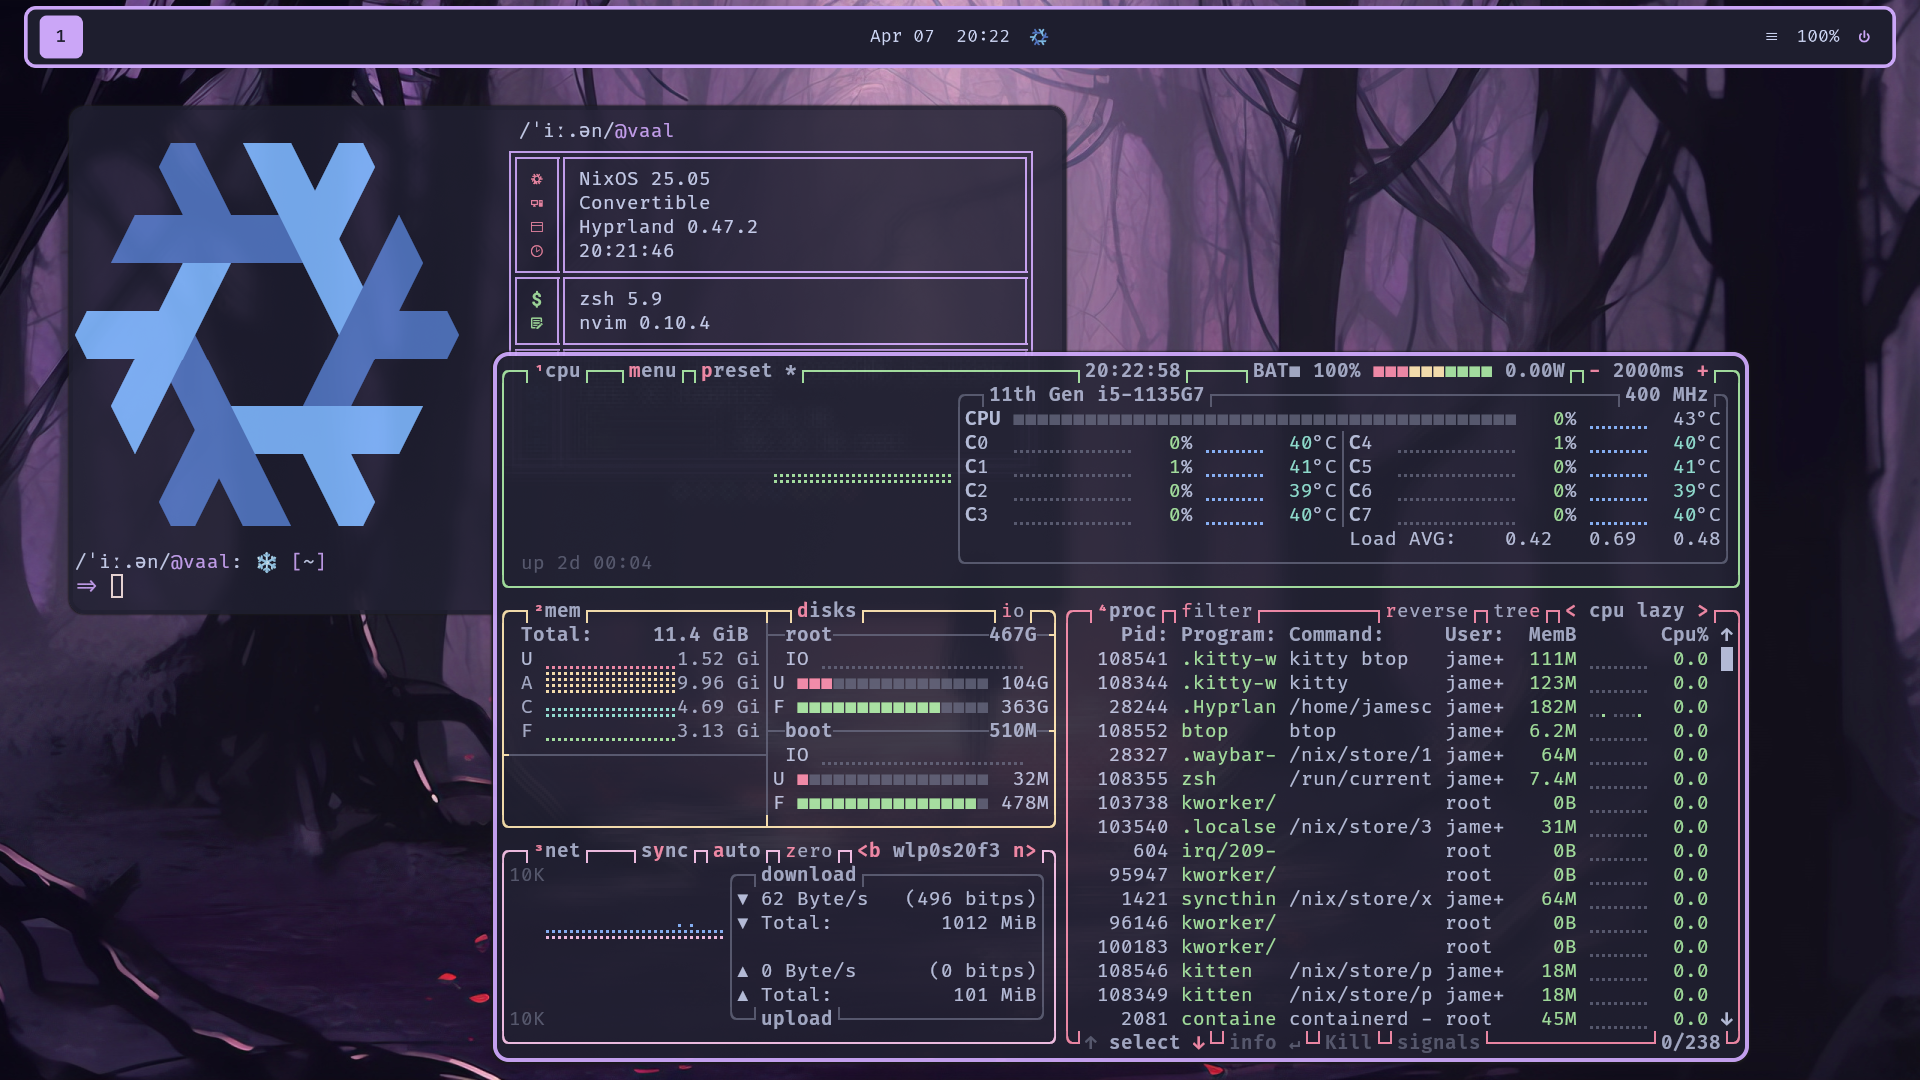
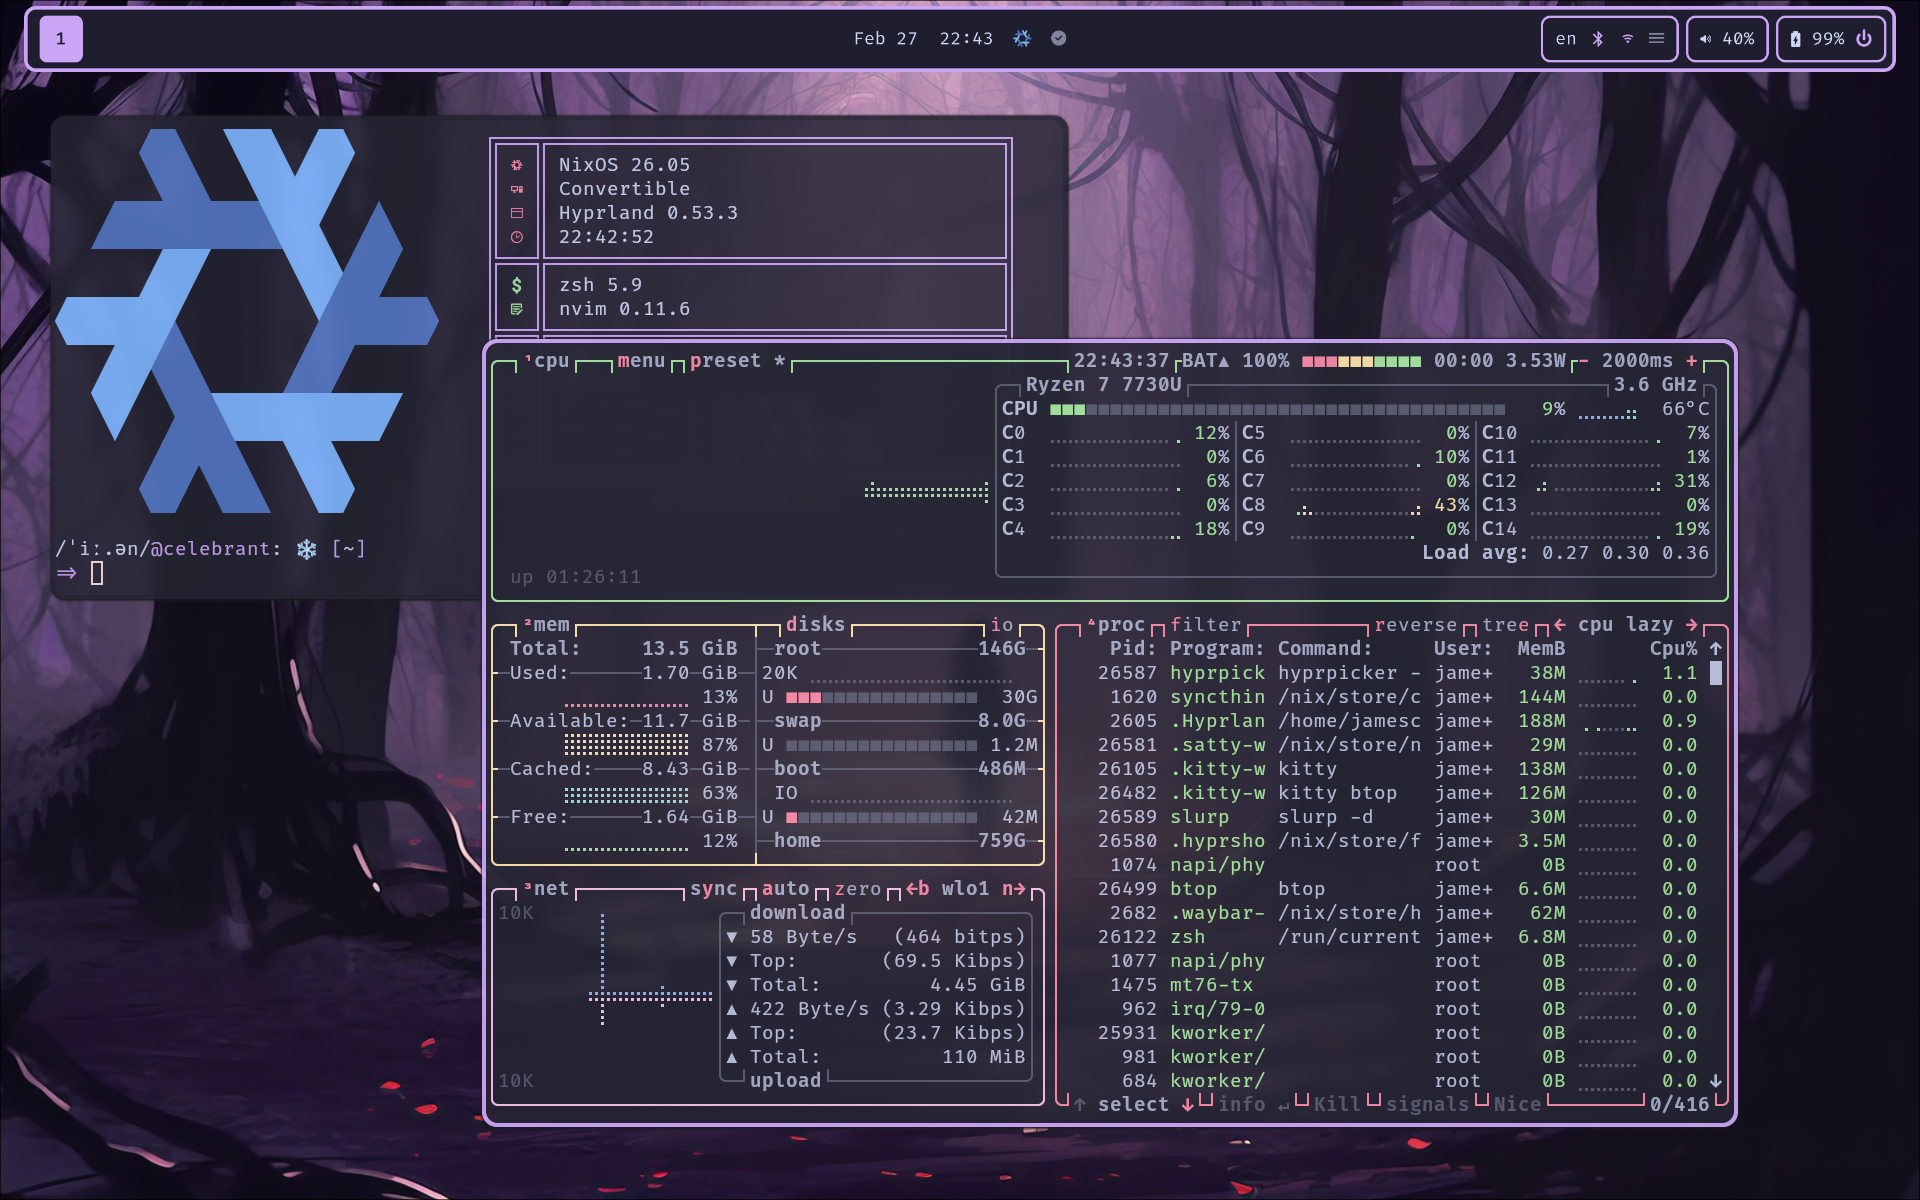
change: update lore

Changed region(s): [[0.0, 0.0, 1.0, 1.0]]

diff --git a/README.md b/README.md
@@ -23,24 +23,32 @@ and have been daily driving it since around that time.
 
 Host Devices
 ------------
-| Hostname | Device Type     | Primary Purpose       | Namesake                                                                                 |
-|----------|-----------------|-----------------------|------------------------------------------------------------------------------------------|
-| vaal     | Laptop          | School                | [Vaal River, South Africa](https://en.wikipedia.org/wiki/Vaal_River)                     |
-| RioTinto | Desktop         | Gaming                | [Rio Tinto, Spain](https://en.wikipedia.org/wiki/Rio_Tinto_(river))                      |
-| tokoro   | Server          | Jellyfin/File Backups | [Tokoro River, Japan](https://en.wikipedia.org/wiki/Tokoro_River)                        |
-| wsl      | Virtual Machine | WSL Config            | [Windows Subsystem for Linux](https://en.wikipedia.org/wiki/Windows_Subsystem_for_Linux) |
+| Hostname  | Device Type     | Active | Primary Purpose       | Namesake                                                                                 |
+|-----------|-----------------|--------|-----------------------|------------------------------------------------------------------------------------------|
+| RioTinto  | Desktop         | 🗹      | Gaming                | [Rio Tinto, Spain](https://en.wikipedia.org/wiki/Rio_Tinto_(river))                      |
+| celebrant | Laptop          | 🗹      | Workstation           | [Celebrant, Middle Earth](https://lotr.fandom.com/wiki/Celebrant)
+| tokoro    | Server          | 🗹      | Jellyfin/File Backups | [Tokoro River, Japan](https://en.wikipedia.org/wiki/Tokoro_River)                        |
+| wsl       | Virtual Machine | 🗹      | WSL Config            | [Windows Subsystem for Linux](https://en.wikipedia.org/wiki/Windows_Subsystem_for_Linux) |
+| vaal      | Laptop          | ☐      | School                | [Vaal River, South Africa](https://en.wikipedia.org/wiki/Vaal_River)                     |
 
 ##### Note on Names
 We have a long-standing tradition at my house to name our devices after a
 river. After a few decades of this, basic names like "Nile" are long gone.
-These particular names are based primarily on cultures that I find intriguing
-or have a connection with.
+My desktop is named after the Rio Tinto because when I first started
+learning Spanish I used to speak the dialect from Spain. Celebrant is named
+after the Celebrant river (pronounced [ˈkɛlɛbrant]), which comes from "celeb,"
+meaning silver, and "brant," meaning something like stream. The computer is
+named so because it has a silvery-blue chassis, and because I was rewatching
+The Hobbit and The Lord of the Rings when I named it. Tokoro is a river in
+Japan. I have always been fascinated by Japanese culture (just like many of my
+peers), so I just chose a name that sounded cool. Vaal was chosen because the
+name looked cool and because I found the letter v appealing.
 
 Screenshots
 -----------
 ![screenshot_1](./assets/screenshot_1.png)
 ![screenshot_2](./assets/screenshot_2.png)
-<div align="center"><i>Screenshots taken on vaal (note: this is slightly outdated).</i></div>
+<div align="center"><i>Screenshots taken on celebrant.</i></div>
 
 Config Design Philosophy
 ------------------------
@@ -76,7 +84,7 @@ The current list is as follows:
 
 ##### Current traits applied to each system
 - RioTinto: Workstation + Gaming + Nvidia
-- Vaal: Workstation
+- celebrant: Workstation
 - Tokoro: Server + Syncthing + JellyfinService
 - wsl: WSL
 
